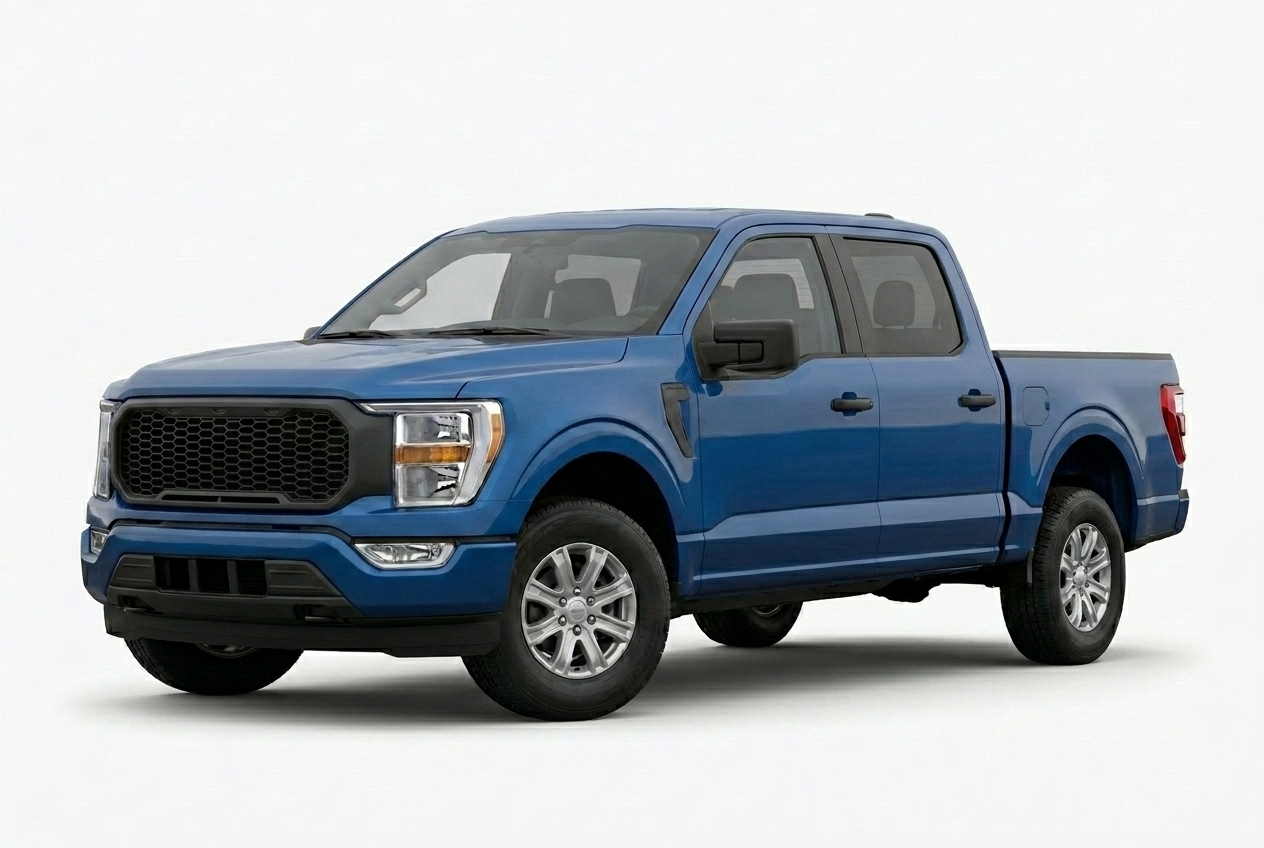
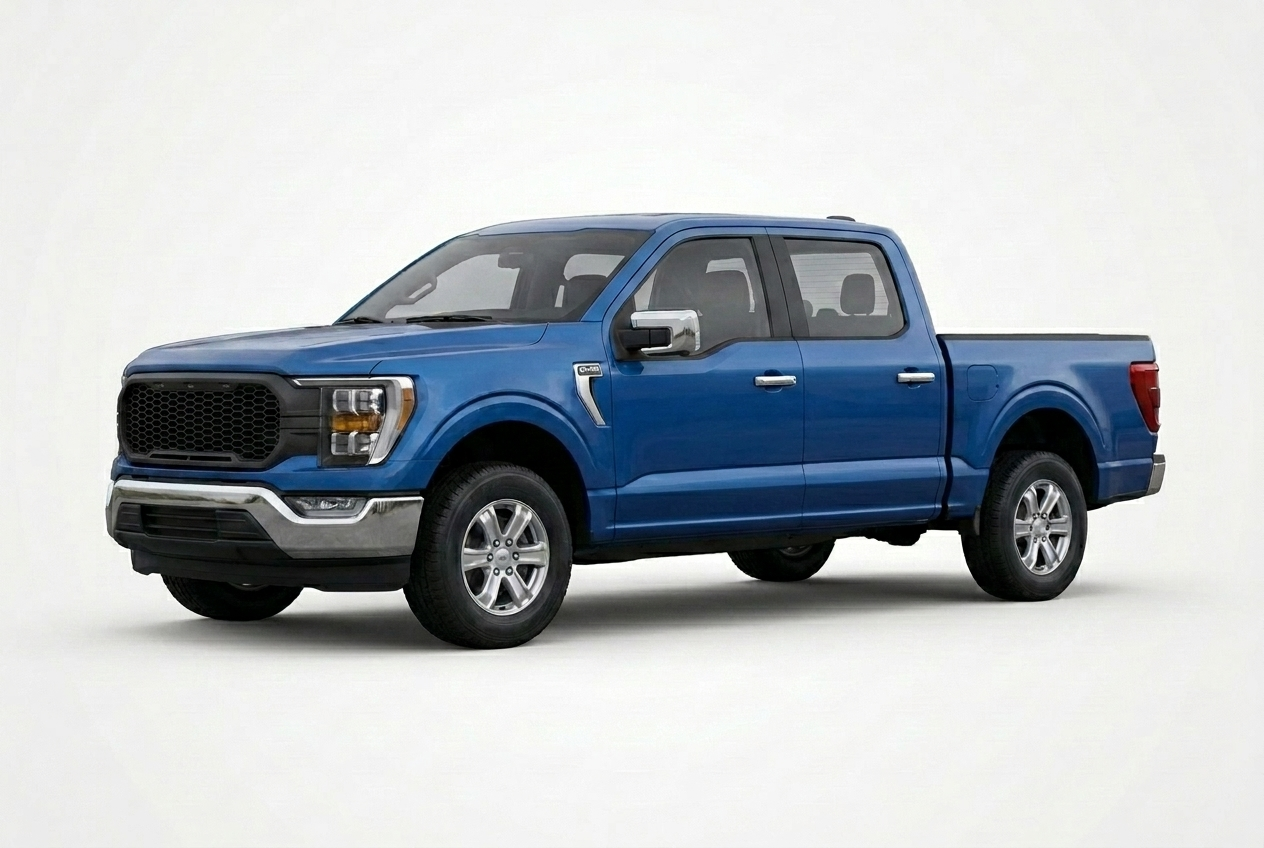
Cycle 14AP-fix10: trim-accurate F-150 photos + toggle in modal + bigger zoom
Three owner asks rolled into one push.

(1) "I want the toggle to see before and after [in the enlarge view]"
    The modal now stores chip context (group + value) instead of a
    baked URL. Image src is recomputed from grilleView state on every
    render — so flipping STOCK / + STEHLEN GRILLE inside the modal
    swaps the image without closing. The toggle UI lives at the
    bottom of the modal alongside the caption. Click body or ESC
    closes; tap on the toggle/image stops propagation so the modal
    stays open during interaction.

(2) "the magnifying class is not that clear"
    Replaced the 32x32 icon-only button with a larger pill that
    pairs the magnifier with a "ENLARGE" label. Higher contrast
    (rgba 0.85 bg, white border, 11px Archivo bold uppercase). Now
    impossible to miss.

(3) "other than color, I don't really see the difference of the 3
    models visually" — owner cited research on actual MY2024 F-150
    trim spec.
    Re-prompted all 3 stock photos with the real trim-package
    differentiation:

      BASE (XL work-truck): BLACK two-bar grille with BLACK surround
        (NO chrome anywhere on grille), BLACK matte bumper, BLACK
        mirror caps + door handles, halogen headlights with BLACK
        bezels, 17" silver-painted STEEL wheels with plastic hubcaps.
        The fleet/utility look — function-over-form.

      MID (XLT): same BLACK two-bar grille BUT with a CHROME
        SURROUND framing it (signature visual diff vs BASE), CHROME
[…]

diff --git a/src/components/commerce/dimension-picker.tsx b/src/components/commerce/dimension-picker.tsx
@@ -86,20 +86,22 @@ export function DimensionPicker({
   // Only used on /collections/front-grilles. Hook lives at top-level so
   // it's never conditionally invoked.
   const [grilleView, setGrilleView] = useState<"stock" | "stehlen">("stock");
-  // Cycle 14AP-fix9 (owner): click-to-zoom modal. Stores the source URL
-  // and label of the chip image to display fullscreen, or null when
-  // closed. ESC + click-outside dismiss.
-  const [zoomSrc, setZoomSrc] = useState<{
-    src: string;
-    label: string;
-    caption?: string;
+  // Cycle 14AP-fix10 (owner round 3): click-to-zoom modal. Stores the
+  // CHIP CONTEXT (group + value, e.g. trim + "BASE") rather than a
+  // baked URL — so when the user toggles STOCK / + STEHLEN GRILLE
+  // INSIDE the modal, the same chip swaps to the other view without
+  // closing. The image src is recomputed from grilleView each render.
+  // ESC + click-outside dismiss.
+  const [zoomChip, setZoomChip] = useState<{
+    group: SubModelGroup;
+    value: string;
   } | null>(null);
 
   // Cycle 14AP-fix9: ESC closes the zoom modal.
   useEffect(() => {
-    if (!zoomSrc) return;
+    if (!zoomChip) return;
     const onKey = (e: KeyboardEvent) => {
-      if (e.key === "Escape") setZoomSrc(null);
+      if (e.key === "Escape") setZoomChip(null);
     };
     document.addEventListener("keydown", onKey);
     document.body.style.overflow = "hidden";
@@ -107,7 +109,7 @@ export function DimensionPicker({
       document.removeEventListener("keydown", onKey);
       document.body.style.overflow = "";
     };
-  }, [zoomSrc]);
+  }, [zoomChip]);
   // Optimistic local state so the UI reacts instantly while the server round-
   // trip is in flight. Initial pull from props (cookie/DB or URL).
   // Cycle 14AO-fix4 (Mike NF-1): when the browser restores this page from
@@ -725,41 +727,41 @@ export function DimensionPicker({
                               see the before/after detail without
                               committing to a pick. stopPropagation keeps
                               the icon click from triggering onPick. */}
+                          {/* Cycle 14AP-fix10 (owner round 3): bigger,
+                              more obvious zoom button with a label so
+                              customers actually see it. The previous
+                              32x32 magnifier was too easy to miss. */}
                           <button
                             type="button"
                             onClick={(e) => {
                               e.stopPropagation();
                               e.preventDefault();
-                              setZoomSrc({
-                                src: imgSrc,
-                                label: opt,
-                                caption: FRONT_GRILLE_POC && s.group === "trim"
-                                  ? grilleView === "stock"
-                                    ? "Stock truck"
-                                    : "+ Stehlen grille"
-                                  : undefined,
-                              });
+                              setZoomChip({ group: s.group, value: opt });
                             }}
-                            aria-label={`Zoom ${opt} photo`}
+                            aria-label={`Enlarge ${opt} photo`}
                             style={{
                               position: "absolute",
-                              top: 8,
-                              right: 8,
-                              width: 32,
-                              height: 32,
+                              top: 10,
+                              right: 10,
                               display: "flex",
                               alignItems: "center",
-                              justifyContent: "center",
-                              background: "rgba(10,10,10,0.65)",
-                              backdropFilter: "blur(4px)",
-                              border: "1px solid rgba(255,255,255,0.2)",
+                              gap: 6,
+                              padding: "8px 12px",
+                              background: "rgba(10,10,10,0.85)",
+                              backdropFilter: "blur(6px)",
+                              border: "1px solid rgba(255,255,255,0.25)",
                               borderRadius: 4,
-                              color: "rgba(255,255,255,0.9)",
+                              color: "#fff",
                               cursor: "pointer",
-                              padding: 0,
+                              fontFamily: "var(--font-display)",
+                              fontSize: 11,
+                              fontWeight: 700,
+                              letterSpacing: "0.1em",
+                              textTransform: "uppercase",
                             }}
                           >
                             <Icons.search size={14} />
+                            <span>Enlarge</span>
                           </button>
                         </div>
                         <div
@@ -846,95 +848,164 @@ export function DimensionPicker({
         )}
       </div>
 
-      {/* Cycle 14AP-fix9 (owner): fullscreen click-to-zoom modal. Click
-          backdrop or X or press ESC to close. Caption shows the trim
-          label + STOCK/STEHLEN view tag so the customer knows which
-          state of the toggle they're zoomed into. */}
-      {zoomSrc && (
-        <div
-          role="dialog"
-          aria-modal="true"
-          aria-label={`${zoomSrc.label} preview`}
-          onClick={() => setZoomSrc(null)}
-          style={{
-            position: "fixed",
-            inset: 0,
-            zIndex: 90,
-            background: "rgba(10,10,10,0.92)",
-            display: "flex",
-            alignItems: "center",
-            justifyContent: "center",
-            padding: 20,
-            cursor: "zoom-out",
-          }}
-        >
-          <button
-            type="button"
-            onClick={(e) => {
-              e.stopPropagation();
-              setZoomSrc(null);
-            }}
-            aria-label="Close"
+      {/* Cycle 14AP-fix10 (owner round 3): fullscreen click-to-zoom
+          modal. Image src is computed from grilleView so the user can
+          toggle STOCK / + STEHLEN GRILLE INSIDE the modal — entire
+          point of the enlarge feature is to compare before vs after,
+          which requires the toggle. ESC + click-outside dismiss; the
+          toggle and image stop click propagation so a tap inside the
+          interactive area doesn't close the modal. */}
+      {zoomChip && (() => {
+        // Recompute the src on each render based on the live grilleView
+        // state — so flipping the toggle in the modal swaps the image.
+        const slug = dimensionChipSlug(zoomChip.group, zoomChip.value);
+        const src =
+          FRONT_GRILLE_POC && zoomChip.group === "trim"
+            ? `/images/dimensions/front-grille-${slug}-${grilleView}.jpg`
+            : `/images/dimensions/${slug}.jpg`;
+        const showToggle =
+          FRONT_GRILLE_POC && zoomChip.group === "trim";
+        return (
+          <div
+            role="dialog"
+            aria-modal="true"
+            aria-label={`${zoomChip.value} preview`}
+            onClick={() => setZoomChip(null)}
             style={{
-              position: "absolute",
-              top: 16,
-              right: 16,
-              width: 40,
-              height: 40,
+              position: "fixed",
+              inset: 0,
+              zIndex: 90,
+              background: "rgba(10,10,10,0.94)",
               display: "flex",
+              flexDirection: "column",
               alignItems: "center",
               justifyContent: "center",
-              background: "rgba(255,255,255,0.1)",
-              border: "1px solid rgba(255,255,255,0.2)",
-              borderRadius: 4,
-              color: "#fff",
-              cursor: "pointer",
+              padding: "20px 20px 96px",
+              cursor: "zoom-out",
             }}
           >
-            <Icons.close size={18} />
-          </button>
-          <div
-            onClick={(e) => e.stopPropagation()}
-            style={{
-              position: "relative",
-              width: "min(95vw, 1400px)",
-              maxHeight: "85vh",
-              aspectRatio: "3 / 2",
-              cursor: "default",
-            }}
-          >
-            <Image
-              src={zoomSrc.src}
-              alt={zoomSrc.label}
-              fill
-              sizes="95vw"
-              style={{ objectFit: "contain" }}
-              priority
-            />
+            <button
+              type="button"
+              onClick={(e) => {
+                e.stopPropagation();
+                setZoomChip(null);
+              }}
+              aria-label="Close"
+              style={{
+                position: "absolute",
+                top: 16,
+                right: 16,
+                width: 44,
+                height: 44,
+                display: "flex",
+                alignItems: "center",
+                justifyContent: "center",
+                background: "rgba(255,255,255,0.1)",
+                border: "1px solid rgba(255,255,255,0.2)",
+                borderRadius: 4,
+                color: "#fff",
+                cursor: "pointer",
+              }}
+            >
+              <Icons.close size={20} />
+            </button>
+
+            <div
+              onClick={(e) => e.stopPropagation()}
+              style={{
+                position: "relative",
+                width: "min(95vw, 1400px)",
+                maxHeight: "78vh",
+                aspectRatio: "3 / 2",
+                cursor: "default",
+              }}
+            >
+              <Image
+                key={src /* force re-render when toggling */}
+                src={src}
+                alt={zoomChip.value}
+                fill
+                sizes="95vw"
+                style={{ objectFit: "contain" }}
+                priority
+              />
+            </div>
+
+            {/* Caption + toggle row, anchored bottom of modal */}
+            <div
+              onClick={(e) => e.stopPropagation()}
+              style={{
+                position: "absolute",
+                bottom: 24,
+                left: 0,
+                right: 0,
+                display: "flex",
+                flexDirection: "column",
+                alignItems: "center",
+                gap: 14,
+                cursor: "default",
+              }}
+            >
+              <div
+                style={{
+                  color: "rgba(255,255,255,0.85)",
+                  fontSize: 14,
+                  letterSpacing: "0.08em",
+                  textTransform: "uppercase",
+                  fontFamily: "var(--font-display)",
+                }}
+              >
+                <span style={{ fontWeight: 700 }}>{zoomChip.value}</span>
+                {showToggle && (
+                  <span style={{ opacity: 0.6, marginLeft: 12 }}>
+                    · {grilleView === "stock" ? "Stock truck" : "+ Stehlen grille"}
+                  </span>
+                )}
+              </div>
+              {showToggle && (
+                <div
+                  role="group"
+                  aria-label="Toggle stock vs Stehlen grille"
+                  style={{
+                    display: "inline-flex",
+                    border: "1px solid rgba(255,255,255,0.3)",
+                    borderRadius: 6,
+                    overflow: "hidden",
+                  }}
+                >
+                  {(["stock", "stehlen"] as const).map((view) => {
+                    const active = grilleView === view;
+                    return (
+                      <button
+                        key={view}
+                        type="button"
+                        onClick={() => setGrilleView(view)}
+                        aria-pressed={active}
+                        style={{
+                          background: active ? "#fff" : "transparent",
+                          color: active ? "#0a0a0a" : "#fff",
+                          border: 0,
+                          padding: "10px 18px",
+                          fontSize: 12,
+                          fontWeight: 700,
+                          letterSpacing: "0.1em",
+                          textTransform: "uppercase",
+                          fontFamily: "var(--font-display)",
+                          cursor: "pointer",
+                        }}
+                      >
+                        {view === "stock"
+                          ? "Stock truck"
+                          : "+ Stehlen grille"}
+                      </button>
+                    );
+                  })}
+                </div>
+              )}
+            </div>
           </div>
-          <div
-            style={{
-              position: "absolute",
-              bottom: 24,
-              left: 0,
-              right: 0,
-              textAlign: "center",
-              color: "rgba(255,255,255,0.85)",
-              fontSize: 14,
-              letterSpacing: "0.08em",
-              textTransform: "uppercase",
-              fontFamily: "var(--font-display)",
-            }}
-          >
-            <span style={{ fontWeight: 700 }}>{zoomSrc.label}</span>
-            {zoomSrc.caption && (
-              <span style={{ opacity: 0.6, marginLeft: 12 }}>
-                · {zoomSrc.caption}
-              </span>
-            )}
-          </div>
-        </div>
-      )}
+        );
+      })()}
     </section>
   );
 }

diff --git a/scripts/regen-dimension-chip-photos.ts b/scripts/regen-dimension-chip-photos.ts
@@ -186,7 +186,7 @@ const CHIPS: { slug: string; subject: string; framing: string; intent: string }[
   {
     slug: "front-grille-trim-base-stock",
     subject:
-      "2024 Ford F-150 SuperCrew 4-door pickup truck in BASE / XL work-truck trim. Oxford white paint. Factory chrome front bumper. Factory chrome-surround grille with horizontal silver bars. Factory 17-inch steel wheels with hub caps. Standard ride height (no lift). NO aftermarket parts of any kind. NO chase rack, NO bed accessories, NO roof rack, NO light bar.",
+      "2024 Ford F-150 SuperCrew 4-door pickup truck in BASE / XL WORK-TRUCK trim. Oxford white paint. Factory MATTE BLACK FRONT BUMPER (no chrome). Factory BLACK two-bar grille with BLACK surround (NO chrome anywhere on the grille). BLACK mirror caps and door handles. Factory halogen headlights with black bezels (no LED, no DRL). Factory 17-inch SILVER PAINTED STEEL WHEELS with simple plastic hubcaps. Standard ride height (no lift). NO aftermarket parts of any kind. NO chase rack, NO bed accessories, NO roof rack, NO light bar. This is the FLEET / COMMERCIAL utility look — function-over-form.",
     framing: "Three-quarter front-side view, vehicle FACING LEFT — grille on the LEFT half of the frame, body extending to the RIGHT. Eye-level camera, ~85mm focal length (no wide-angle distortion). VEHICLE TAKES EXACTLY 75% OF THE FRAME WIDTH — centered horizontally, with 12.5% empty padding on the LEFT and 12.5% on the RIGHT. Vertical: vehicle takes 65% of frame height, centered vertically, with 17.5% padding above the roof and 17.5% below the tires. Pure flat white background — NO cyclorama curve visible, NO wall-to-floor joint, NO horizon line, NO environment, NO ceiling, NO shadows other than a soft contact shadow directly under the tires. Single soft top-down studio key light. The frame must look like a clean catalog product shot floating on white, not a studio room.",
     intent: "Same Ford F-150 silhouette as the other two trims; only paint + bumper + wheels differ. Customer reads 'BASE / WORK trim — chrome bumper, steel wheels, white paint'.",
   },
@@ -200,7 +200,7 @@ const CHIPS: { slug: string; subject: string; framing: string; intent: string }[
   {
     slug: "front-grille-trim-mid-stock",
     subject:
-      "2024 Ford F-150 SuperCrew 4-door pickup truck in MID-TIER / XLT trim. Atlas blue metallic paint. Factory body-color (blue) front bumper. Factory body-color grille with chrome horizontal bars. Factory 18-inch alloy wheels. Standard ride height. NO aftermarket parts.",
+      "2024 Ford F-150 SuperCrew 4-door pickup truck in MID-TIER / XLT trim. Atlas blue metallic paint. Factory CHROME front bumper (NOT body-color). Factory BLACK two-bar grille with a CHROME SURROUND around it (this chrome surround is the SIGNATURE visual difference vs the BASE trim — look at the grille frame). CHROME mirror caps and chrome door handles. Factory halogen headlights with CHROME bezels. Factory 17-inch SILVER-PAINTED ALUMINUM ALLOY WHEELS (different style from BASE's steel wheels — these have proper alloy spokes). Standard ride height. NO aftermarket parts.",
     framing: "IDENTICAL framing to front-grille-trim-base-stock — three-quarter front-side view, vehicle facing LEFT, grille on LEFT half of frame, eye-level camera, same focal length. VEHICLE TAKES EXACTLY 75% OF THE FRAME WIDTH, centered horizontally with 12.5% padding left and right. Same vertical centering. Pure flat white background — NO cyclorama curve, NO wall-to-floor joint, NO horizon, NO environment, NO ceiling. Soft contact shadow under tires only.",
     intent: "Same F-150 silhouette as BASE; only paint colour + bumper finish + wheel style change. Customer reads 'XLT / MID trim — blue paint, body-color bumper, alloy wheels'. CRITICAL: vehicle must occupy the EXACT SAME 75% frame width as the BASE chip — the white BASE truck appeared smaller in the previous round because it had more empty padding around it. Match the BASE chip zoom level pixel-precisely.",
   },
@@ -214,7 +214,7 @@ const CHIPS: { slug: string; subject: string; framing: string; intent: string }[
   {
     slug: "front-grille-trim-heavy-duty-stock",
     subject:
-      "2024 Ford F-150 SuperCrew 4-door pickup truck in HEAVY-DUTY / OFF-ROAD trim package (Lariat / Tremor styling — NOT Raptor, NOT Trail Boss, NOT Rebel). Agate black metallic paint. Blacked-out front bumper. Factory matte-black grille with chrome horizontal bars and Ford blue-oval badge. Factory 18-inch matte-black off-road wheels with all-terrain tires. Slight 2-inch factory lift. NO chase rack, NO bed accessories, NO roof rack — this is JUST the truck.",
+      "2024 Ford F-150 SuperCrew 4-door pickup truck in HIGH / PREMIUM trim — F-150 LIMITED or PLATINUM level (NOT Raptor, NOT Trail Boss, NOT Rebel, NOT Tremor — those are off-road packages, this is the LUXURY package). Agate black metallic paint. Body-color (black) front bumper. SATIN-CHROME single-bar grille with a unique fine-mesh insert and PLATINUM badge in the lower corner — this is the PREMIUM grille treatment, completely different from the BASE black two-bar and the MID black + chrome-surround. SATIN-CHROME mirror caps. Premium QUAD-BEAM LED HEADLIGHTS with chrome bezels (NOT halogen). Factory 22-INCH POLISHED ALUMINUM WHEELS — large, premium, polished bright finish (NOT off-road wheels, NOT matte black). Standard ride height — this is a LUXURY trim, not a lifted off-road truck. NO chase rack, NO bed accessories, NO roof rack.",
     framing: "IDENTICAL framing to front-grille-trim-base-stock — three-quarter front-side view, vehicle facing LEFT, grille on LEFT half of frame, eye-level camera, pure white seamless studio cyclorama, same lighting. Vehicle takes the same 80% of frame width as the other trims.",
     intent: "Same F-150 silhouette as BASE and MID; only paint + bumper + wheels change. Customer reads 'HEAVY-DUTY / off-road trim — black-on-black, off-road wheels, slightly lifted'. The truck must be RECOGNIZABLY THE SAME F-150, not a different vehicle. CRITICAL: vehicle must occupy the EXACT SAME 75% frame width as the BASE and MID chips. All three trim chips MUST share the same zoom level so the customer sees one truck silhouette in three colour stories, not three different truck sizes.",
   },
